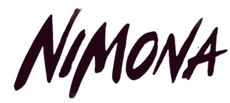
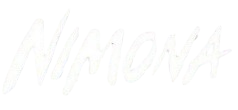
up

Changed region(s): [[0.0609, 0.0583, 1.0, 0.9612]]

diff --git a/Filme/style.css b/Filme/style.css
@@ -6,9 +6,11 @@
 
 /* HEADER */ 
 a {
-    color: #A42433;
+    color: white;
     font-family: 'Gill Sans', 'Gill Sans MT', Calibri, 'Trebuchet MS', sans-serif;
-    margin-right: 40px;}
+    margin-right: 40px;
+    font-weight: bolder;
+}
 .ef {
     display: inline-block;
     position: relative;
@@ -23,7 +25,7 @@ a {
     height: 2px;
     bottom: 0;
     left: 0;
-    background-color:#A42433;
+    background-color:white;
     transition: width 0.3s ease-in-out;
     border-radius: 2px;
 }
@@ -46,9 +48,8 @@ header {
     margin-left: 300px;
 }
 
-
 /* imagem do começo */
 
 .nimo {
-    height: 700px;
+    height: 580px;
 }

diff --git a/Filme/index.html b/Filme/index.html
@@ -21,9 +21,16 @@
 
 
     <main>
+    <!-- IMAGEM DO COMEÇO-->
         <section class="imgNimona">
             <img src="img/Nimona.png" alt="" class="nimo">
         </section>
+
+    <!-- SINÓPSE -->
+     <section class="sinopse">
+        
+     </section>
+
     </main>
 </body>
 </html>
